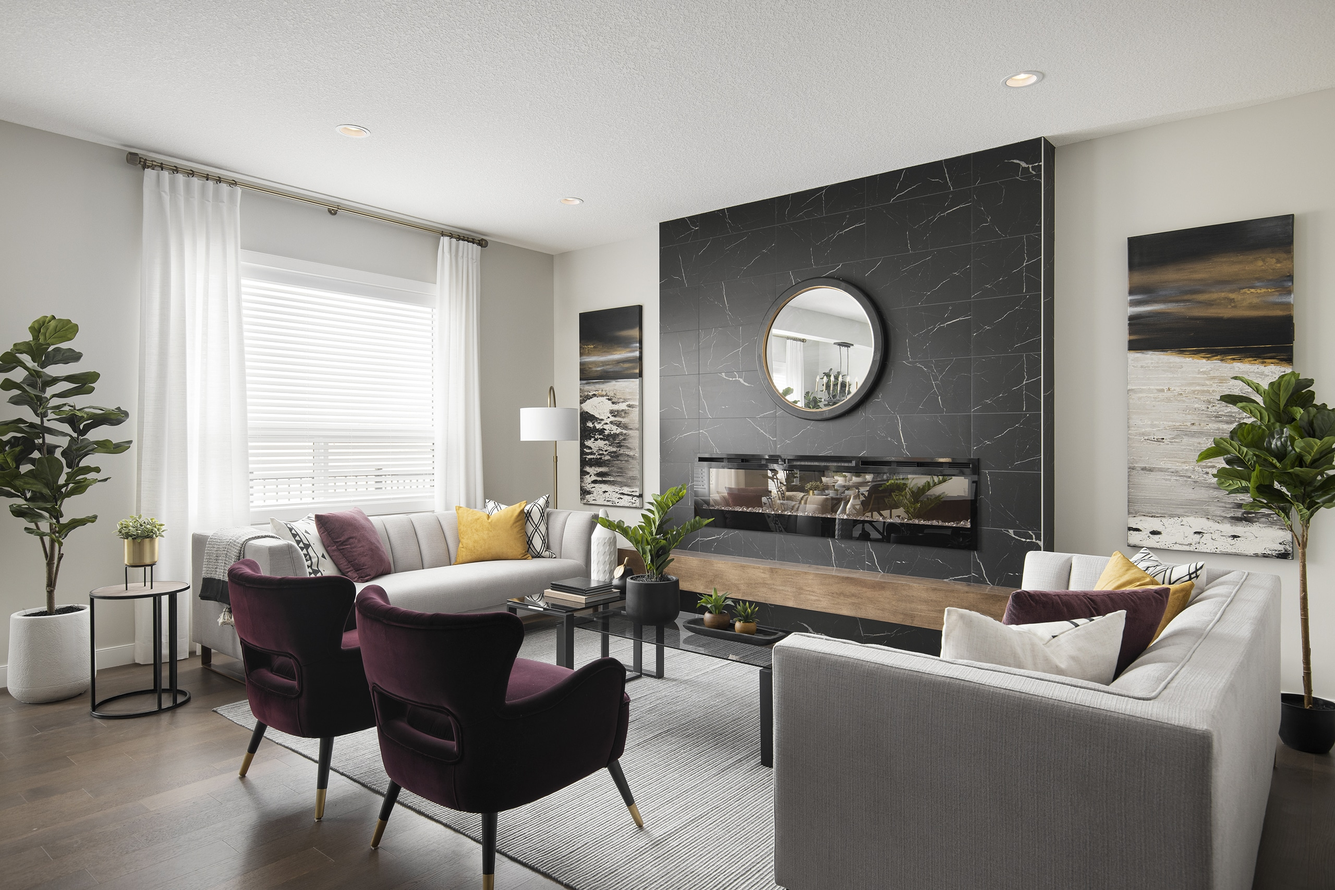
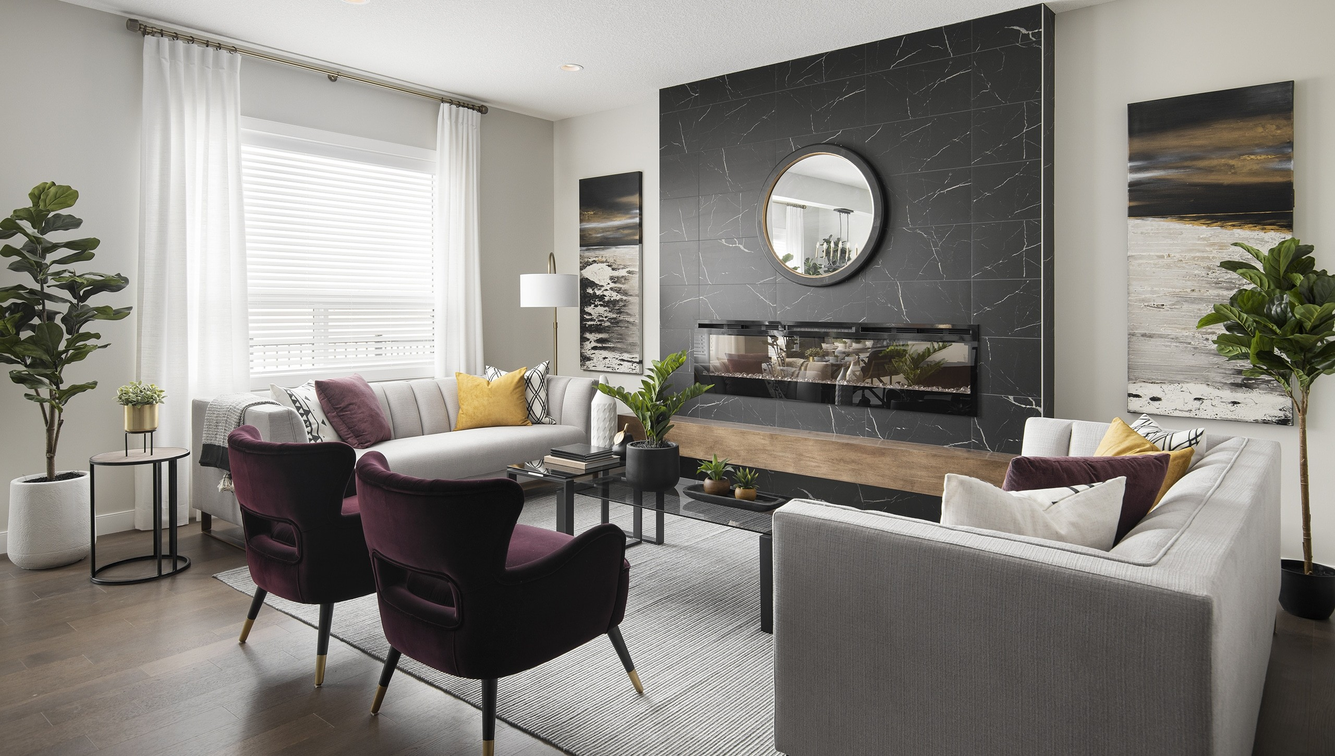
swap to hero5, crop top

diff --git a/index.html b/index.html
@@ -810,7 +810,7 @@
 
 <!-- Hero showcase -->
 <section class="hero-showcase reveal d5">
-  <img src="hero6.jpg" alt="Calgary show home interior — the kind of footage we edit every week" loading="lazy" />
+  <img src="hero5.jpg" alt="Calgary show home interior — the kind of footage we edit every week" loading="lazy" />
 </section>
 
 <!-- How it works -->
